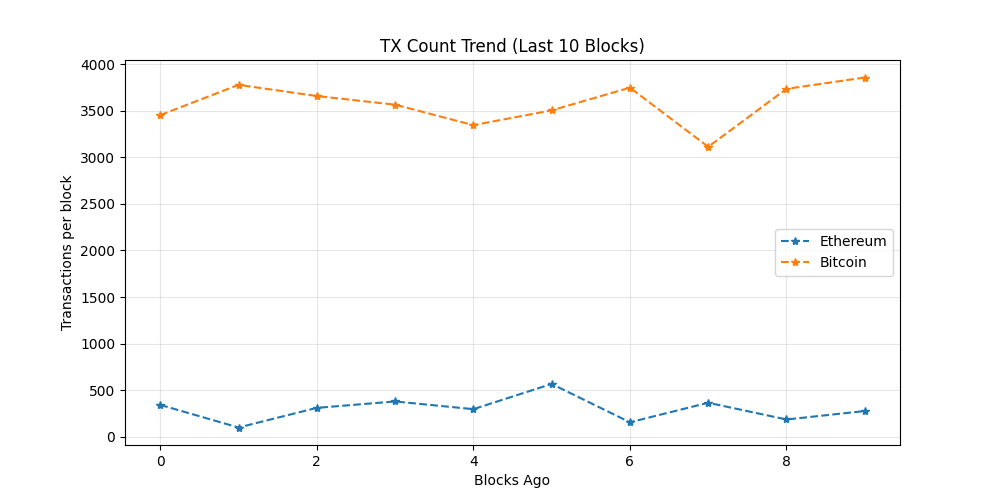
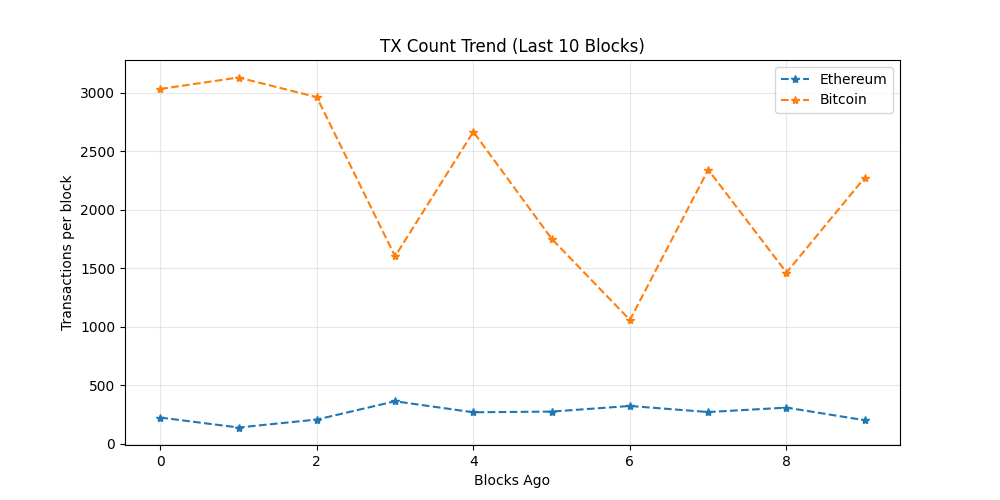
chore: update on-chain dashboard

diff --git a/README.md b/README.md
@@ -19,7 +19,7 @@ The README itself acts as the dashboard and is regenerated automatically on a 6 
 demonstrating a production-style, infrastructure-focused observability workflow rather
 than a traditional UI-driven approach.
 
-_Last updated: 2026-11-13 19:39 UTC_
+_Last updated: 2026-11-14 06:17 UTC_
 
 ## API Usage (GetBlock.io)
 - Calls used: **24**
@@ -27,8 +27,8 @@ _Last updated: 2026-11-13 19:39 UTC_
 ## Network Metrics
 | Chain | Block Height | TX Count | TPS (10 blk avg) | Block Util | Avg Fee |
 |------|-------------|----------|------------------|------------|---------|
-| Ethereum | 26408189 | 275 | 22.92 | 60.32% | 0.1 Gwei |
-| Bitcoin | 975704 | 3859 | 1.41 | 99.79% | N/A |
+| Ethereum | 26411373 | 200 | 16.67 | 50.72% | 0.1 Gwei |
+| Bitcoin | 975750 | 2274 | 2.42 | 99.8% | N/A |
 
 ## Visuals
 ### Transactions Trend
@@ -43,11 +43,10 @@ _Last updated: 2026-11-13 19:39 UTC_
 ## Whale Alerts (latest block)
 - Transaction hashes are truncated for readability.
 - Full hashes are available in `dashboards/metrics.json`
-- Bitcoin | 116.33 BTC | `92aabf72f350…`
-- Bitcoin | 115.83 BTC | `a63405561b0c…`
-- Bitcoin | 115.81 BTC | `5afd6734275d…`
-- Bitcoin | 115.77 BTC | `b369827a1b83…`
-- Bitcoin | 115.76 BTC | `2e8eb58f8202…`
+- Bitcoin | 1041.47 BTC | `fab79442237a…`
+- Bitcoin | 121.87 BTC | `fc9d1283e76a…`
+- Bitcoin | 2482.74 BTC | `e85335a19988…`
+- Bitcoin | 177.76 BTC | `921689e1ab6a…`
 
 ## Run locally
 
